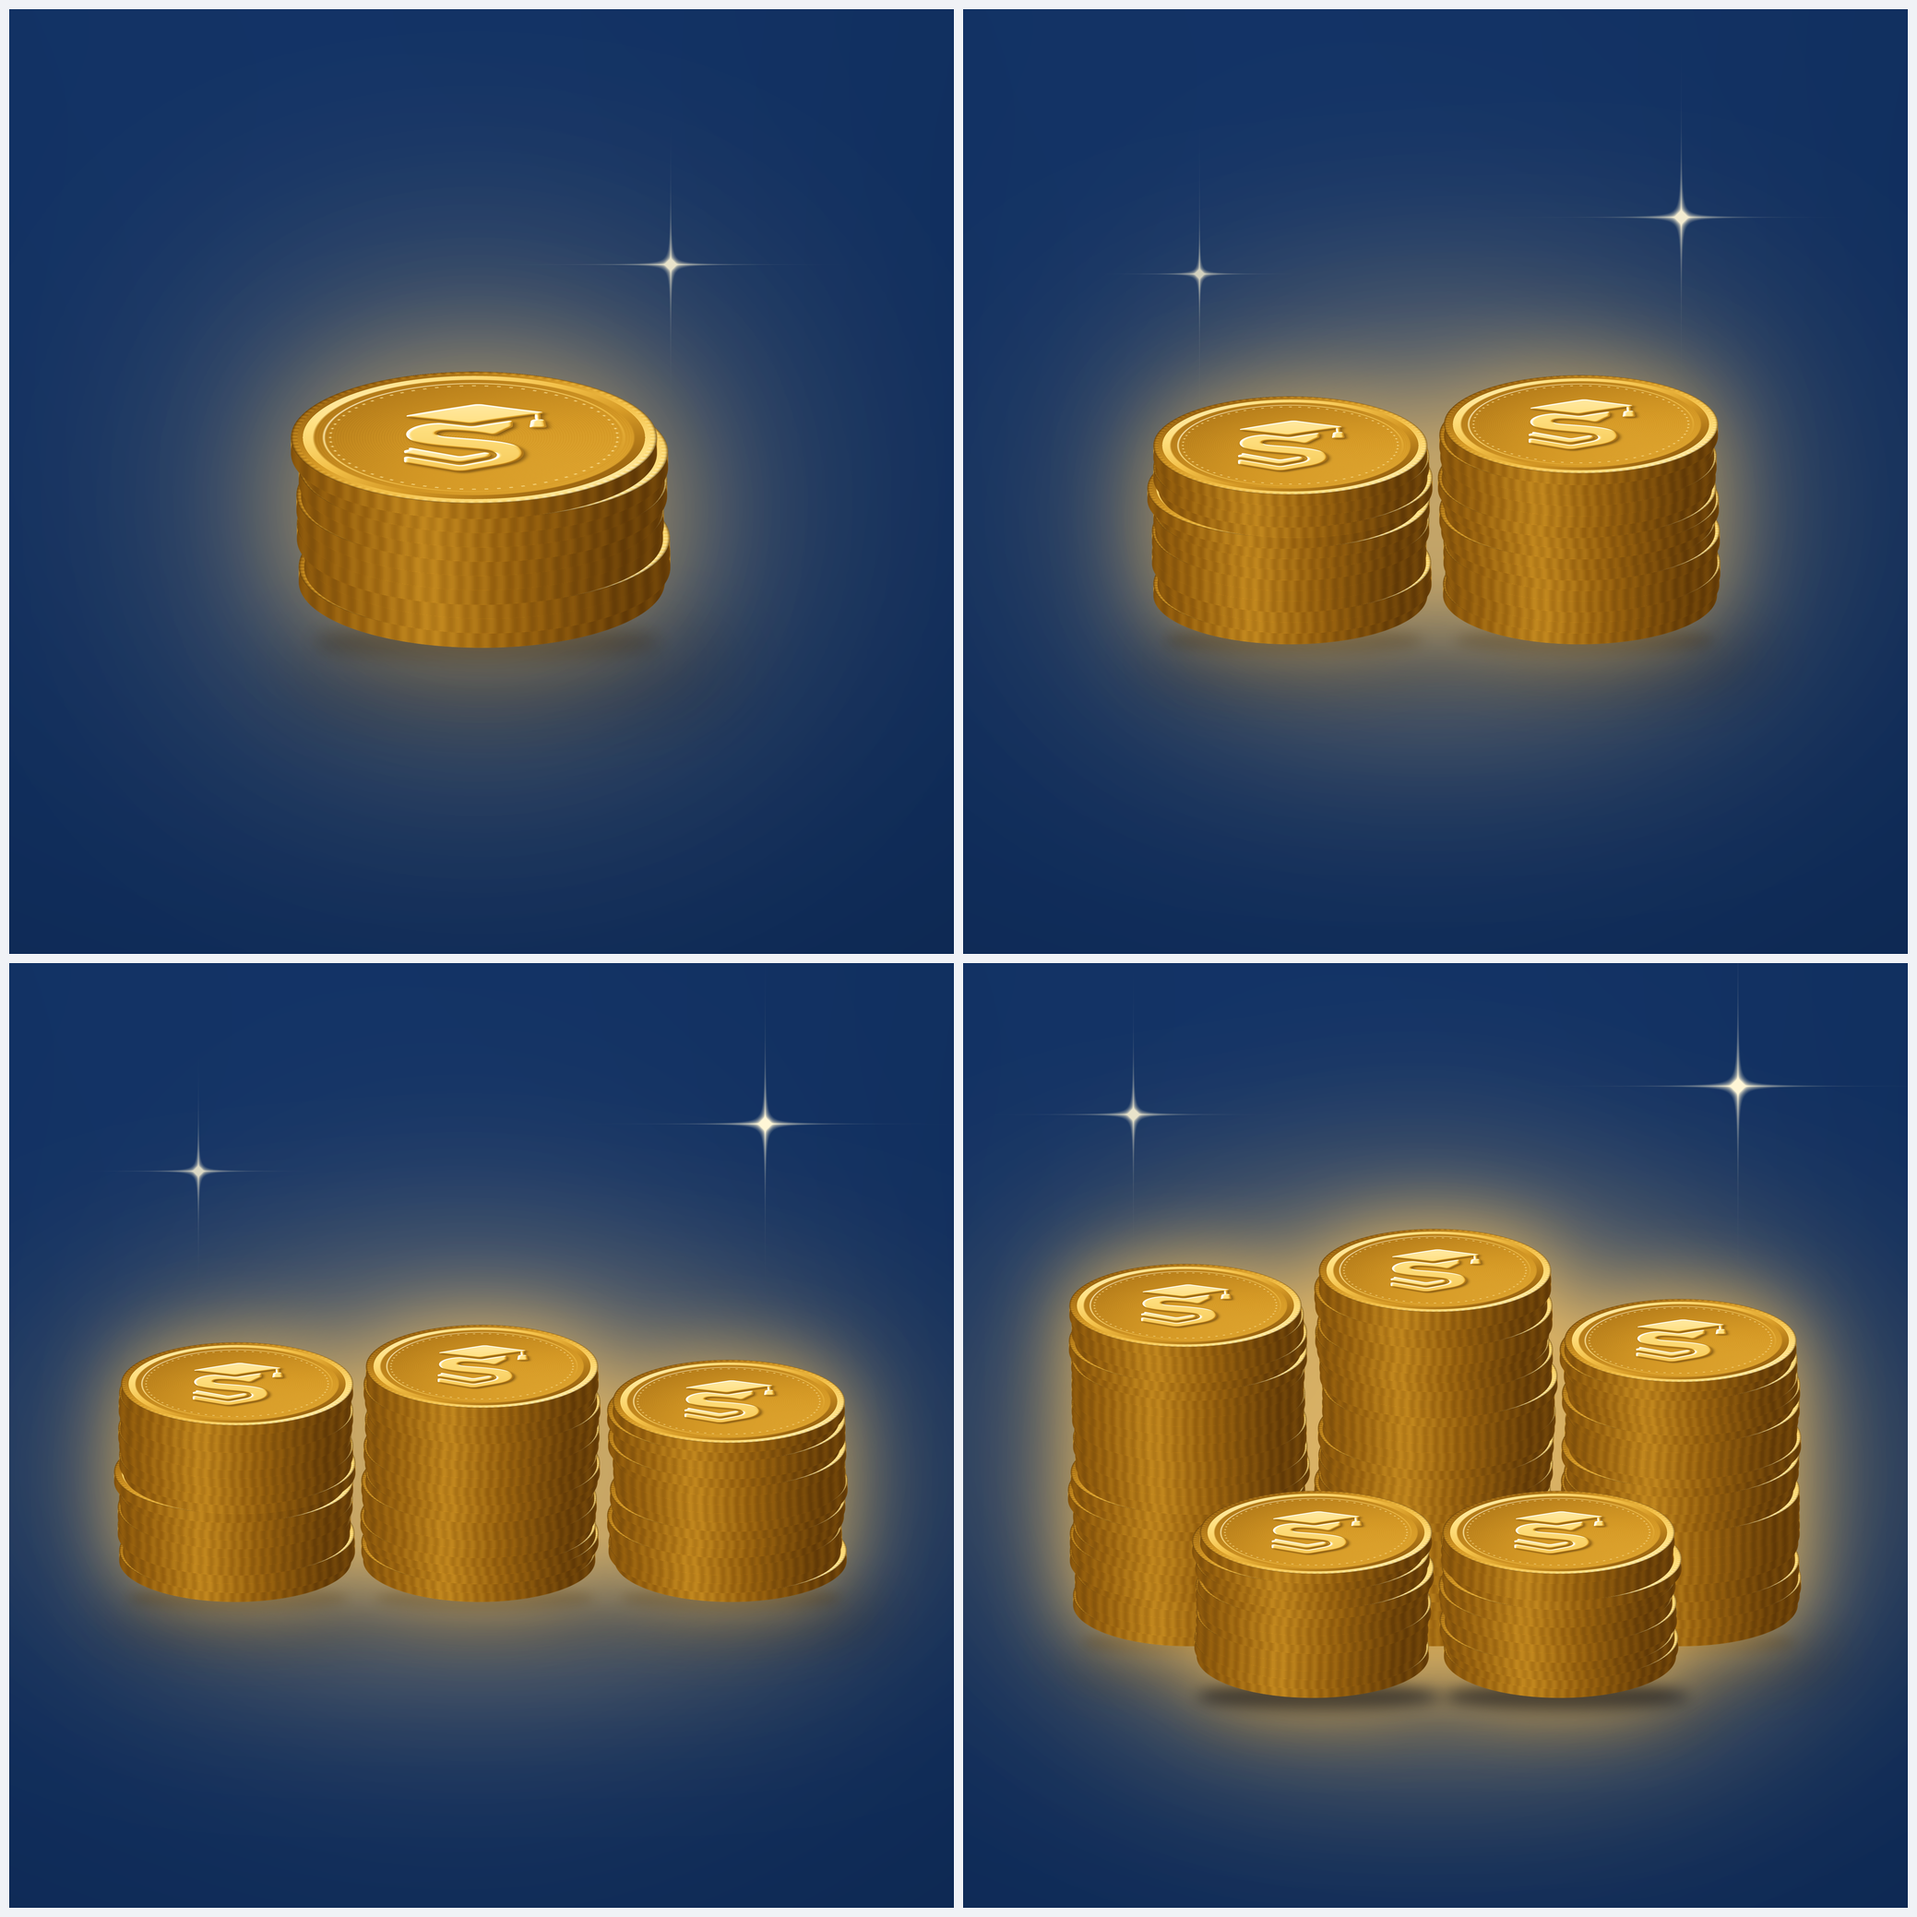
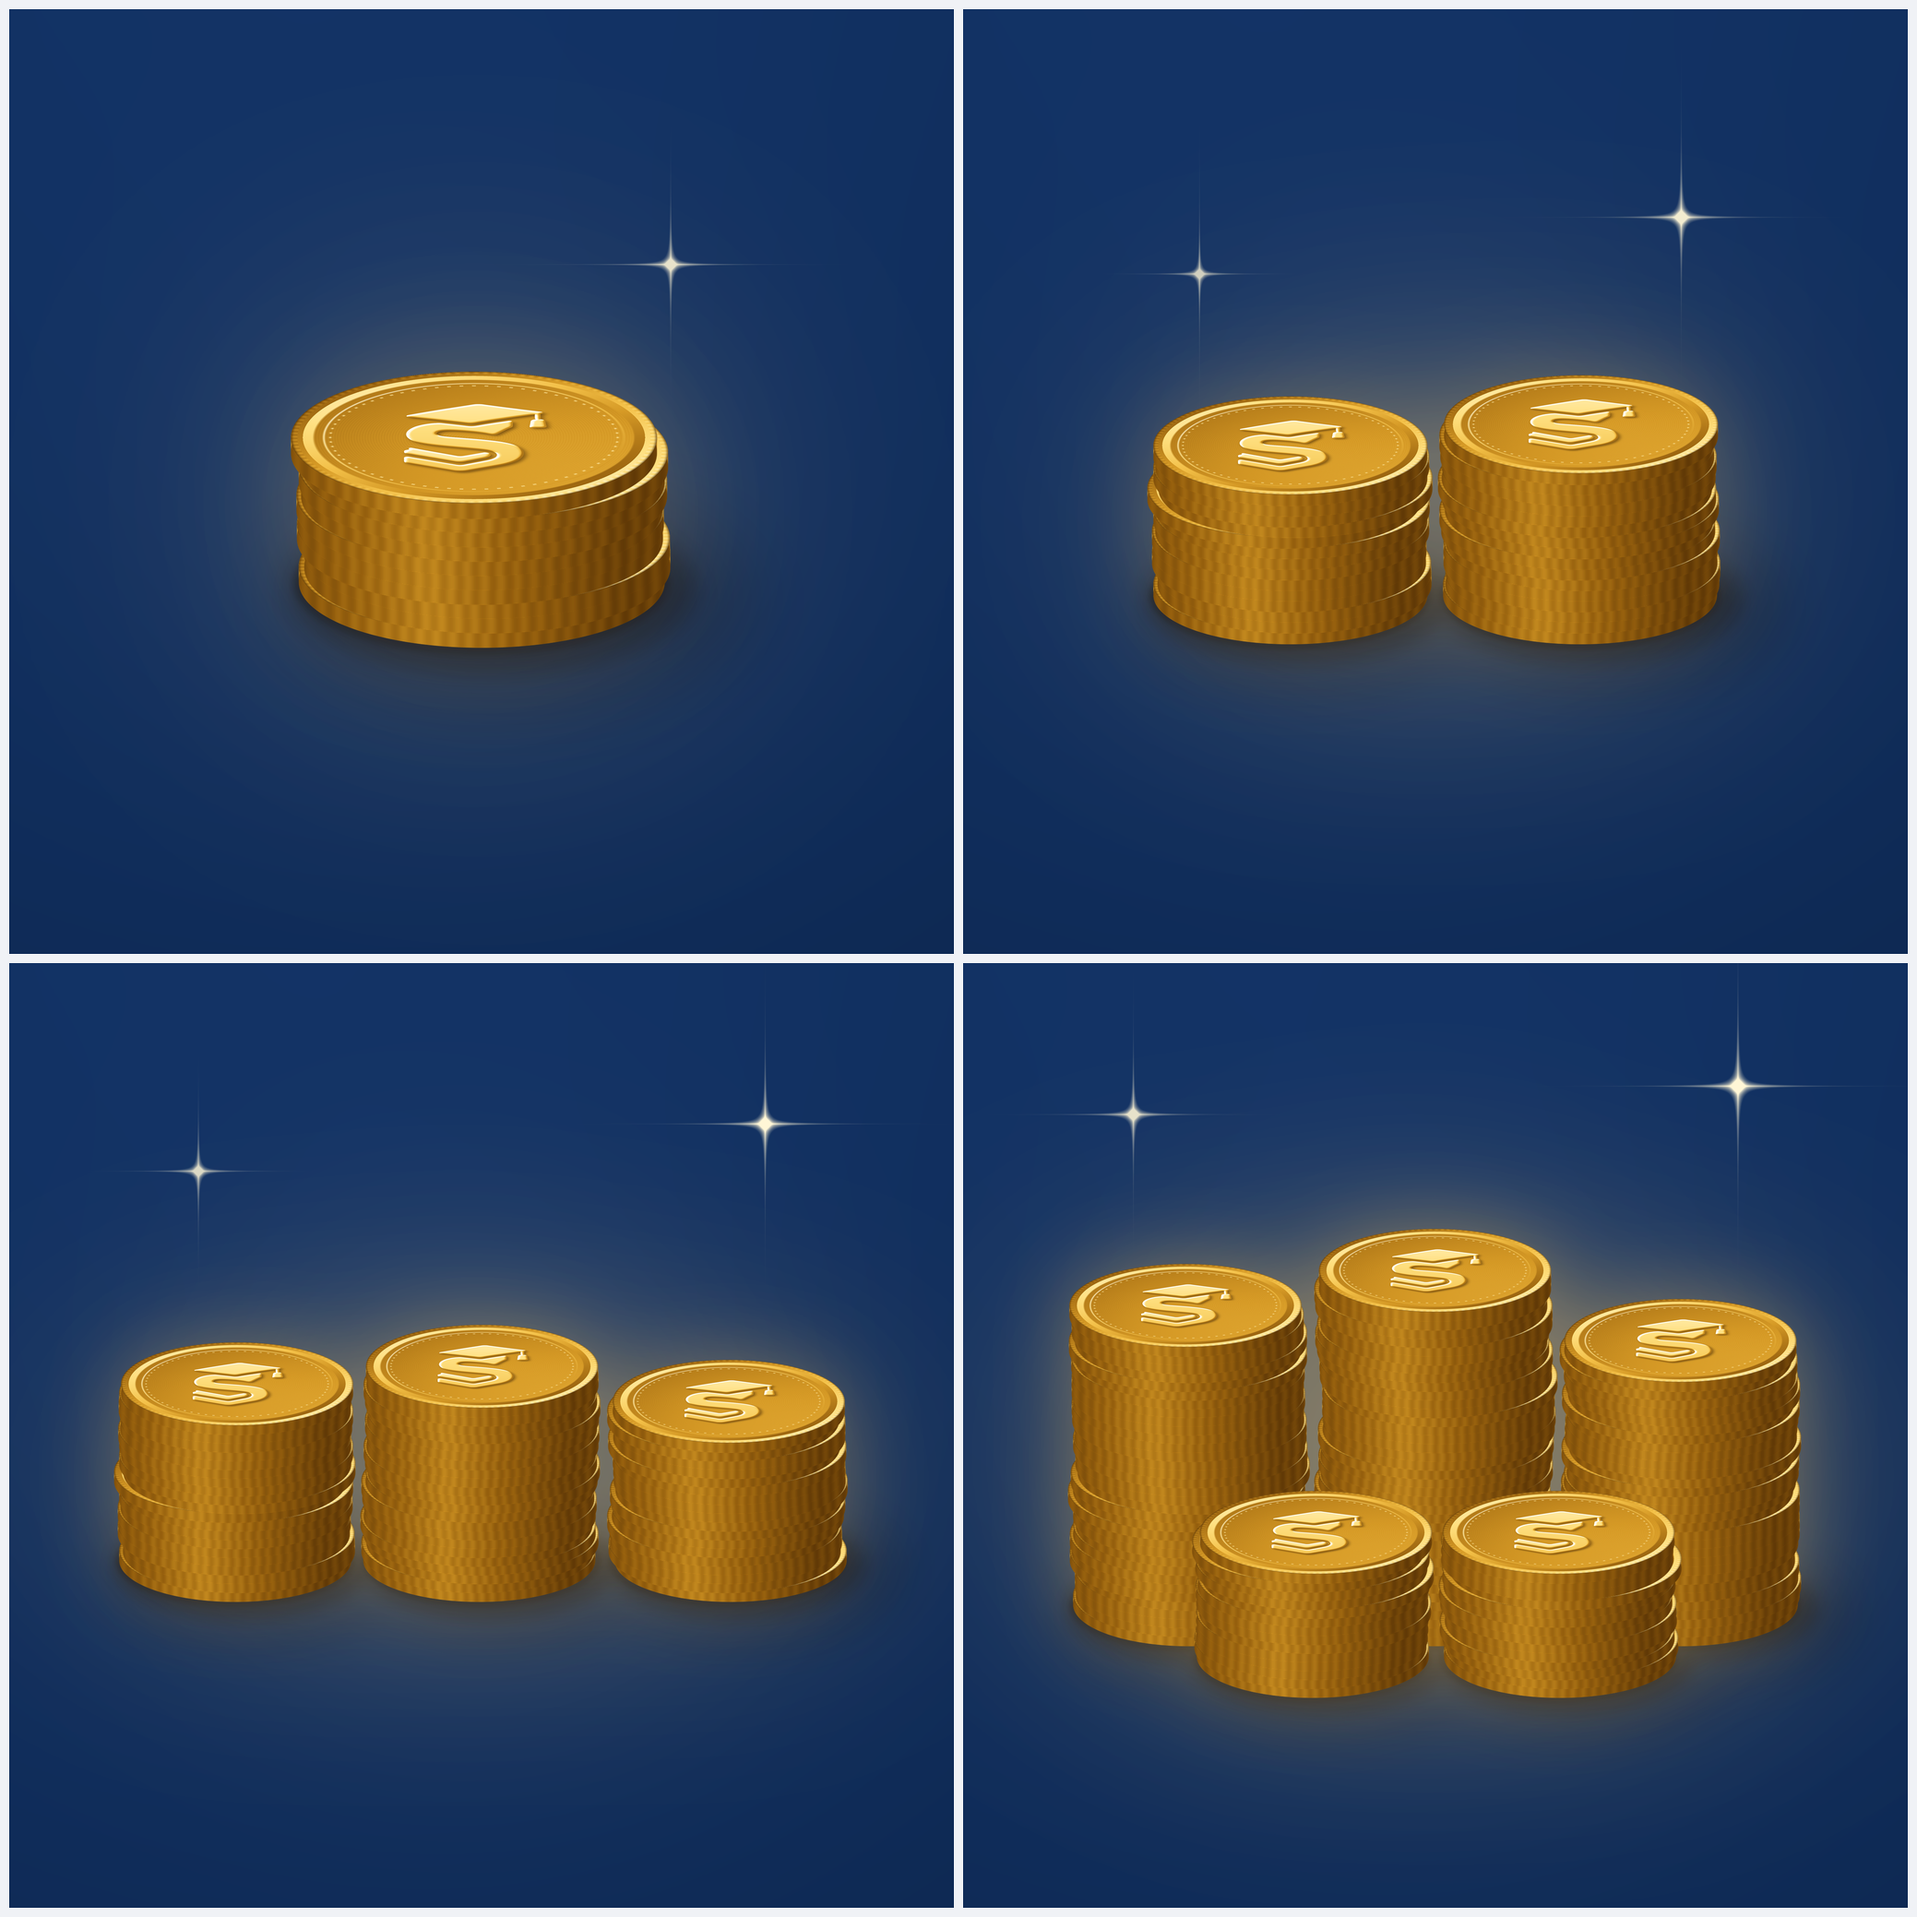
Credits App Store images: grounded contact shadows, subtler glow
Claude-Session: https://claude.ai/code/session_01GobWpT85o28siu684qFHUz

Changed region(s): [[0.0308, 0.5852, 0.9856, 0.9548], [0.5544, 0.1232, 0.9548, 0.4004], [0.0924, 0.1232, 0.4004, 0.4004]]

diff --git a/build-resources/credits-art/render-stacks.py b/build-resources/credits-art/render-stacks.py
@@ -78,32 +78,32 @@ def stack_image(name, stacks, glow, sparkles):
     cy = S * 0.53   # the pile's middle
     r2 = ((xx - S / 2) ** 2 + ((yy - cy) * 1.15) ** 2) / (S * 0.30) ** 2
     halo = np.exp(-r2) * glow + np.exp(-r2 * 4) * glow * 0.6
-    bg = bg + np.array([255, 186, 70], np.float32) * halo[..., None] * 0.85
+    bg = bg + np.array([255, 186, 70], np.float32) * halo[..., None] * 0.42
     img = Image.fromarray(np.clip(bg, 0, 255).astype(np.uint8), "RGB").convert("RGBA")
     rng = np.random.default_rng(len(name))
-    # Shadows: a wide, very soft one thrown down and to the right (the light is from the top left), then a tight,
-    # darker contact shadow where each stack meets the ground
-    def shade(spread, lift, h, blur, alpha, dx):
+    # Shadows that sit on the ground like real ones: each is the shape of the coin's own bottom (a flattened ellipse,
+    # mostly hidden under the stack), so it shows only as a rim around the base: a soft one leaning a little to the
+    # lower right (the light is from the top left), a firmer contact shadow, and a thin dark line where metal meets ground
+    faceh = coin.height - EDGE * w   # the height of a coin's face as drawn
+    def shade(rx, ry, dx, dy, blur, alpha):
         m = Image.new("L", (S, S), 0); d = ImageDraw.Draw(m)
         for x, foot, n, row in place:
-            d.ellipse([x + dx - w * spread, foot - h * coin.height * 0.5 - lift, x + dx + w * spread, foot + h * coin.height * 0.5 - lift], fill=255)
-        m = m.filter(ImageFilter.GaussianBlur(blur)).point(lambda v: int(v * alpha))
+            cx, cy = x + w * dx, foot - faceh * 0.5 + faceh * dy
+            d.ellipse([cx - w * rx, cy - faceh * ry, cx + w * rx, cy + faceh * ry], fill=255)
+        m = m.filter(ImageFilter.GaussianBlur(max(1, int(blur)))).point(lambda v: int(v * alpha))
         return Image.merge("RGBA", (Image.new("L", (S, S), 4), Image.new("L", (S, S), 12), Image.new("L", (S, S), 30), m))
-    img = Image.alpha_composite(img, shade(0.62, -int(w * 0.05), 0.55, int(w * 0.11), 0.42, int(w * 0.07)))
-    img = Image.alpha_composite(img, shade(0.47, int(w * 0.02), 0.24, int(w * 0.025), 0.62, int(w * 0.015)))
+    img = Image.alpha_composite(img, shade(0.64, 0.80, 0.10, 0.12, w * 0.10, 0.30))
+    img = Image.alpha_composite(img, shade(0.55, 0.62, 0.03, 0.04, w * 0.035, 0.55))
+    img = Image.alpha_composite(img, shade(0.51, 0.53, 0.00, 0.01, w * 0.010, 0.60))
     shadows = img; img = Image.new("RGBA", (S, S), (0, 0, 0, 0))   # the coins go on their own layer, for their aura
     for x, foot, n, row in sorted(place, key=lambda t: t[3]):   # the back row first, then the stacks in front
-        if row:   # a front stack's own contact shadow falls on the stacks behind it
-            m = Image.new("L", (S, S), 0); ImageDraw.Draw(m).ellipse([x - w * 0.5, foot - coin.height * 0.16, x + w * 0.56, foot + coin.height * 0.12], fill=255)
-            m = m.filter(ImageFilter.GaussianBlur(int(w * 0.03))).point(lambda v: int(v * 0.55))
-            img = Image.alpha_composite(img, Image.merge("RGBA", (Image.new("L", (S, S), 4), Image.new("L", (S, S), 12), Image.new("L", (S, S), 30), m)))
         for k in range(n):
             j = int(rng.normal(0, w * 0.012))
             img.alpha_composite(coin, (x - w // 2 + j, foot - coin.height - k * step))
     # a soft golden aura around the coins' outline, then the coins over it
     a = img.getchannel("A")
-    aura = Image.merge("L", [a.filter(ImageFilter.GaussianBlur(int(w * 0.16))).point(lambda v: int(min(255, v * 1.3) * glow * 2.0))])
-    wide = a.filter(ImageFilter.GaussianBlur(int(w * 0.45))).point(lambda v: int(min(255, v * 1.6) * glow * 1.4))
+    aura = Image.merge("L", [a.filter(ImageFilter.GaussianBlur(int(w * 0.16))).point(lambda v: int(min(255, v * 1.3) * glow * 0.85))])
+    wide = a.filter(ImageFilter.GaussianBlur(int(w * 0.45))).point(lambda v: int(min(255, v * 1.6) * glow * 0.55))
     gold = lambda m: Image.merge("RGBA", (Image.new("L", (S, S), 255), Image.new("L", (S, S), 200), Image.new("L", (S, S), 96), m))
     img = Image.alpha_composite(Image.alpha_composite(Image.alpha_composite(shadows, gold(wide)), gold(aura)), img)
     arr = np.asarray(img.convert("RGB")).astype(np.float32)
